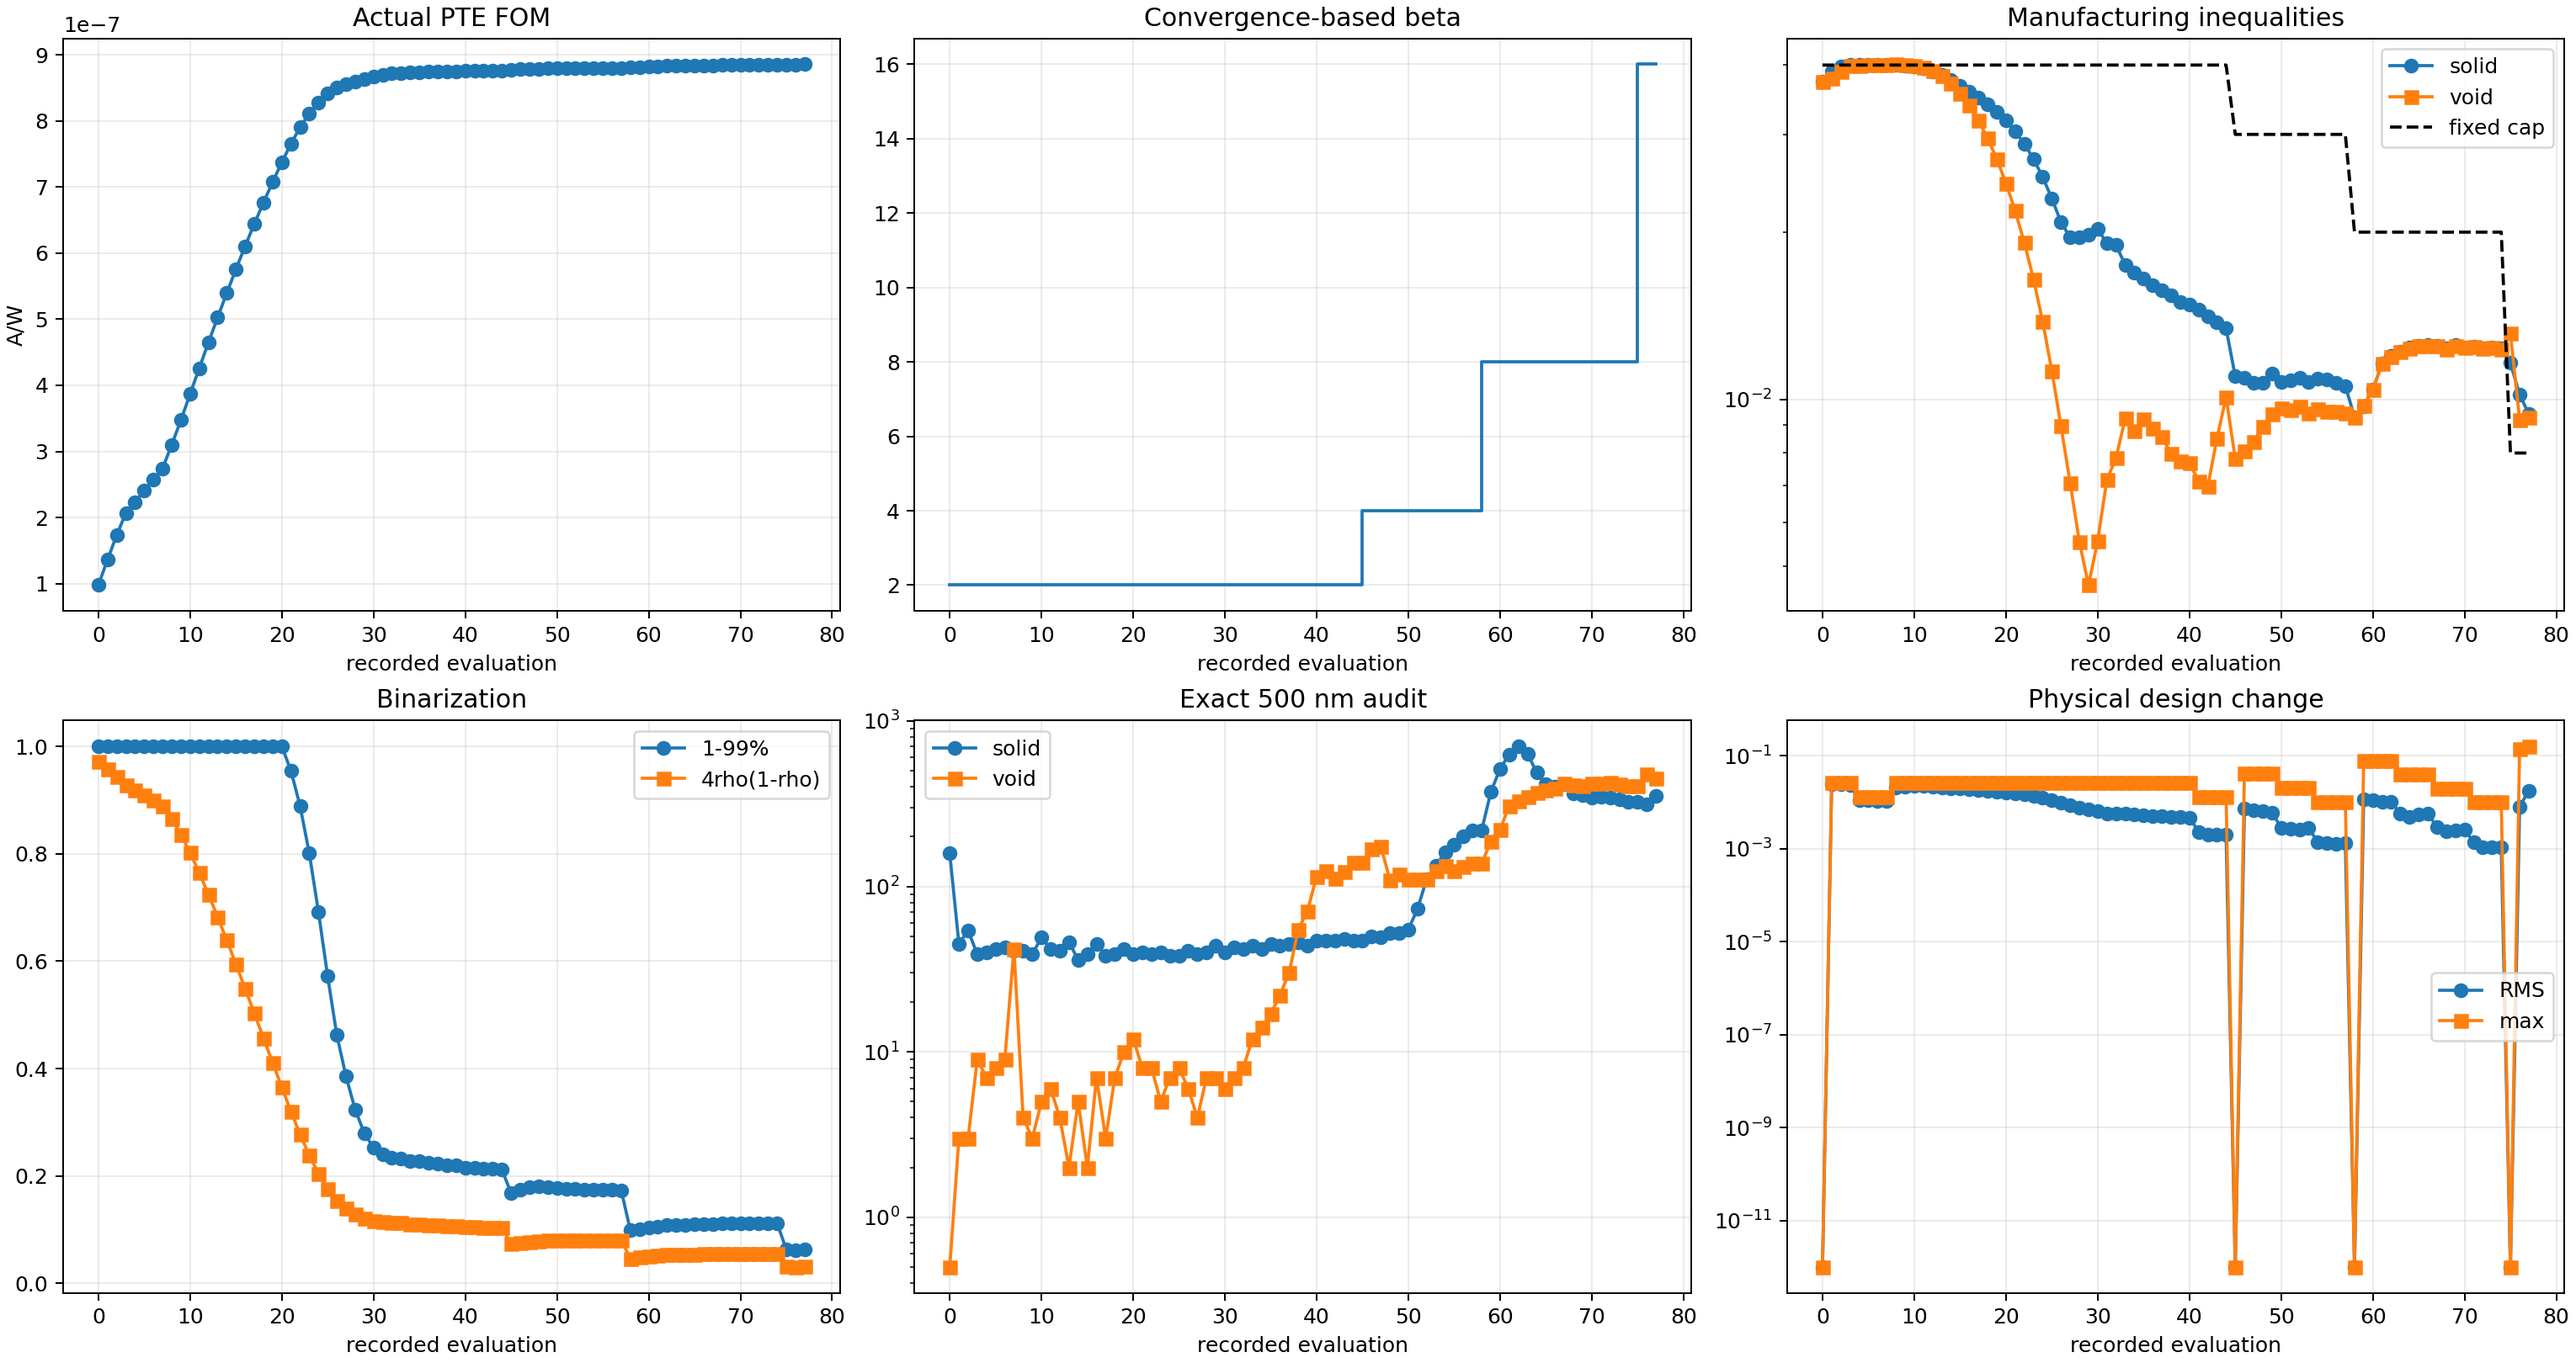
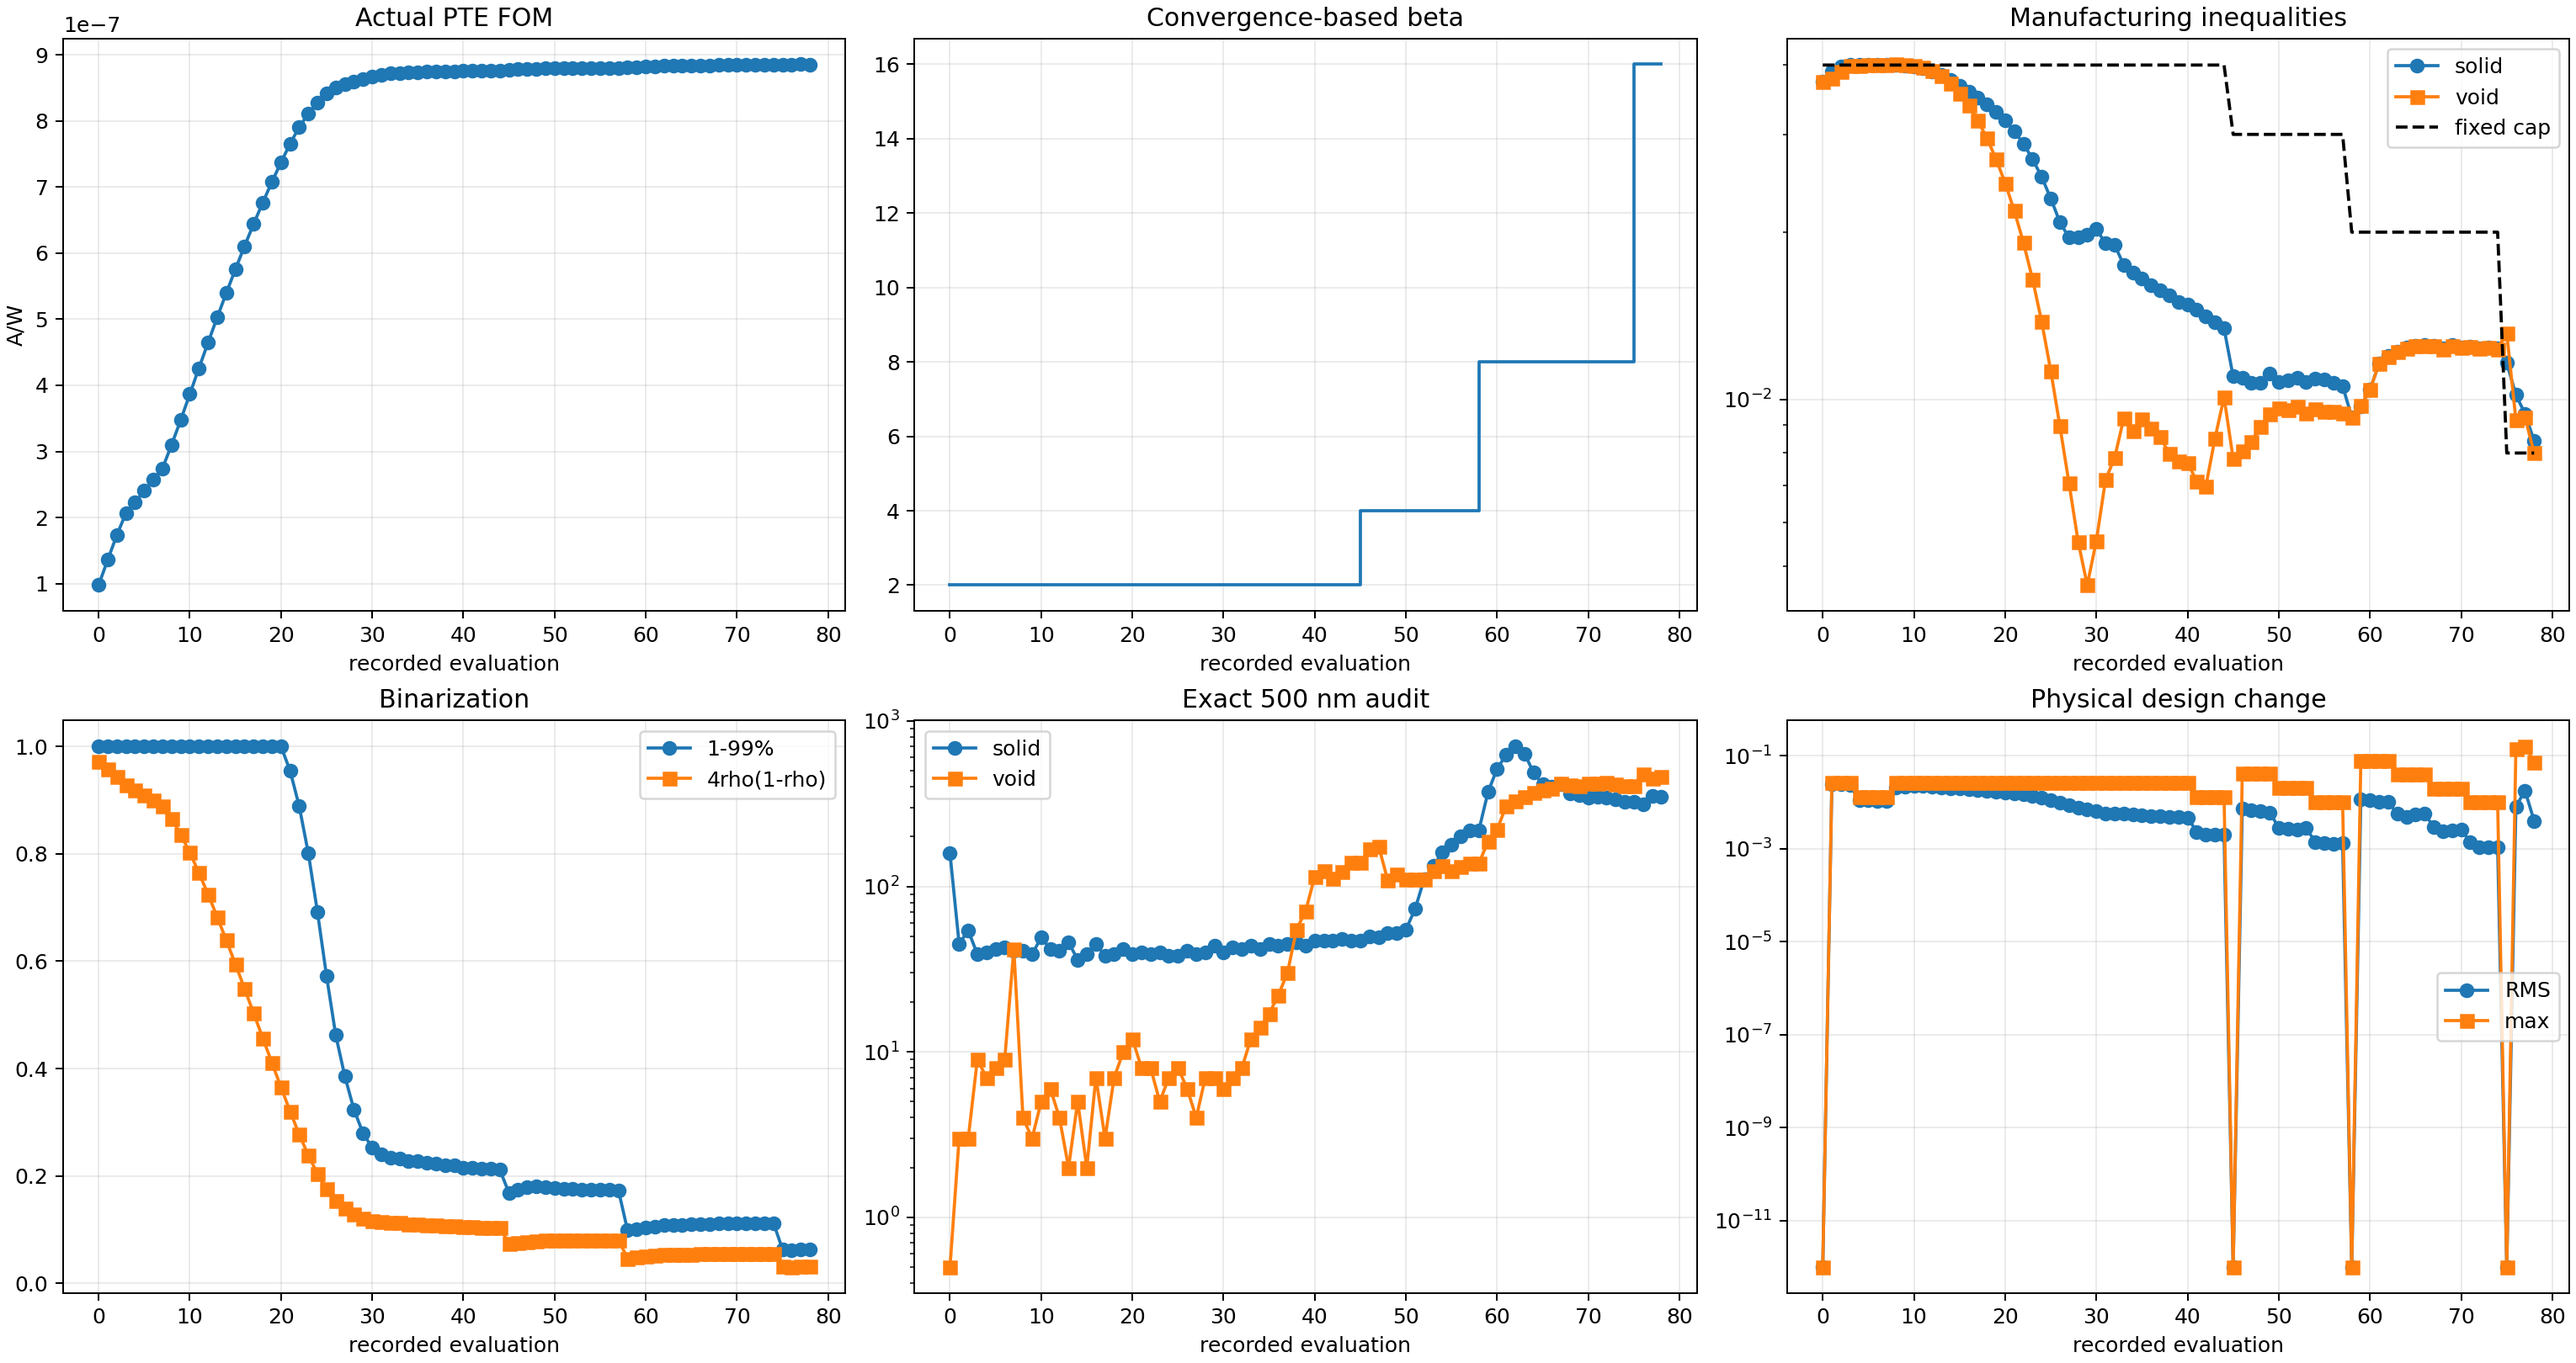
Record Run 003 run003_b016_s003_g075_accepted_mma

diff --git a/photothermal_pte/optimization_runs/run_003_gaussian10_w8p5_current_max_converged/results/OPTIMIZATION_REPORT.md b/photothermal_pte/optimization_runs/run_003_gaussian10_w8p5_current_max_converged/results/OPTIMIZATION_REPORT.md
@@ -2,10 +2,10 @@
 
 Status: `RUNNING_CONVERGENCE_BASED_CONSTRAINED_BETA_CONTINUATION`
 
-Current stage: beta=16, accepted stage iteration=2, global iteration=74.
+Current stage: beta=16, accepted stage iteration=3, global iteration=75.
 
-Actual FOM: `8.854328924101e-07 A/W`. Fixed-cap solid/void constraints: `9.418555e-03` / `9.283697e-03` with cap `8.000000e-03`.
+Actual FOM: `8.853386703309e-07 A/W`. Fixed-cap solid/void constraints: `8.413108e-03` / `7.998871e-03` with cap `8.000000e-03`.
 
-Exact 500 nm bad cells: solid `354`, void `451`. Stage convergence: `False` (need at least 8 accepted updates).
+Exact 500 nm bad cells: solid `348`, void `462`. Stage convergence: `False` (need at least 8 accepted updates).
 
 Beta is promoted only after fixed-inequality feasibility and a four-update FOM/design plateau; it is never promoted after one nominal update.
